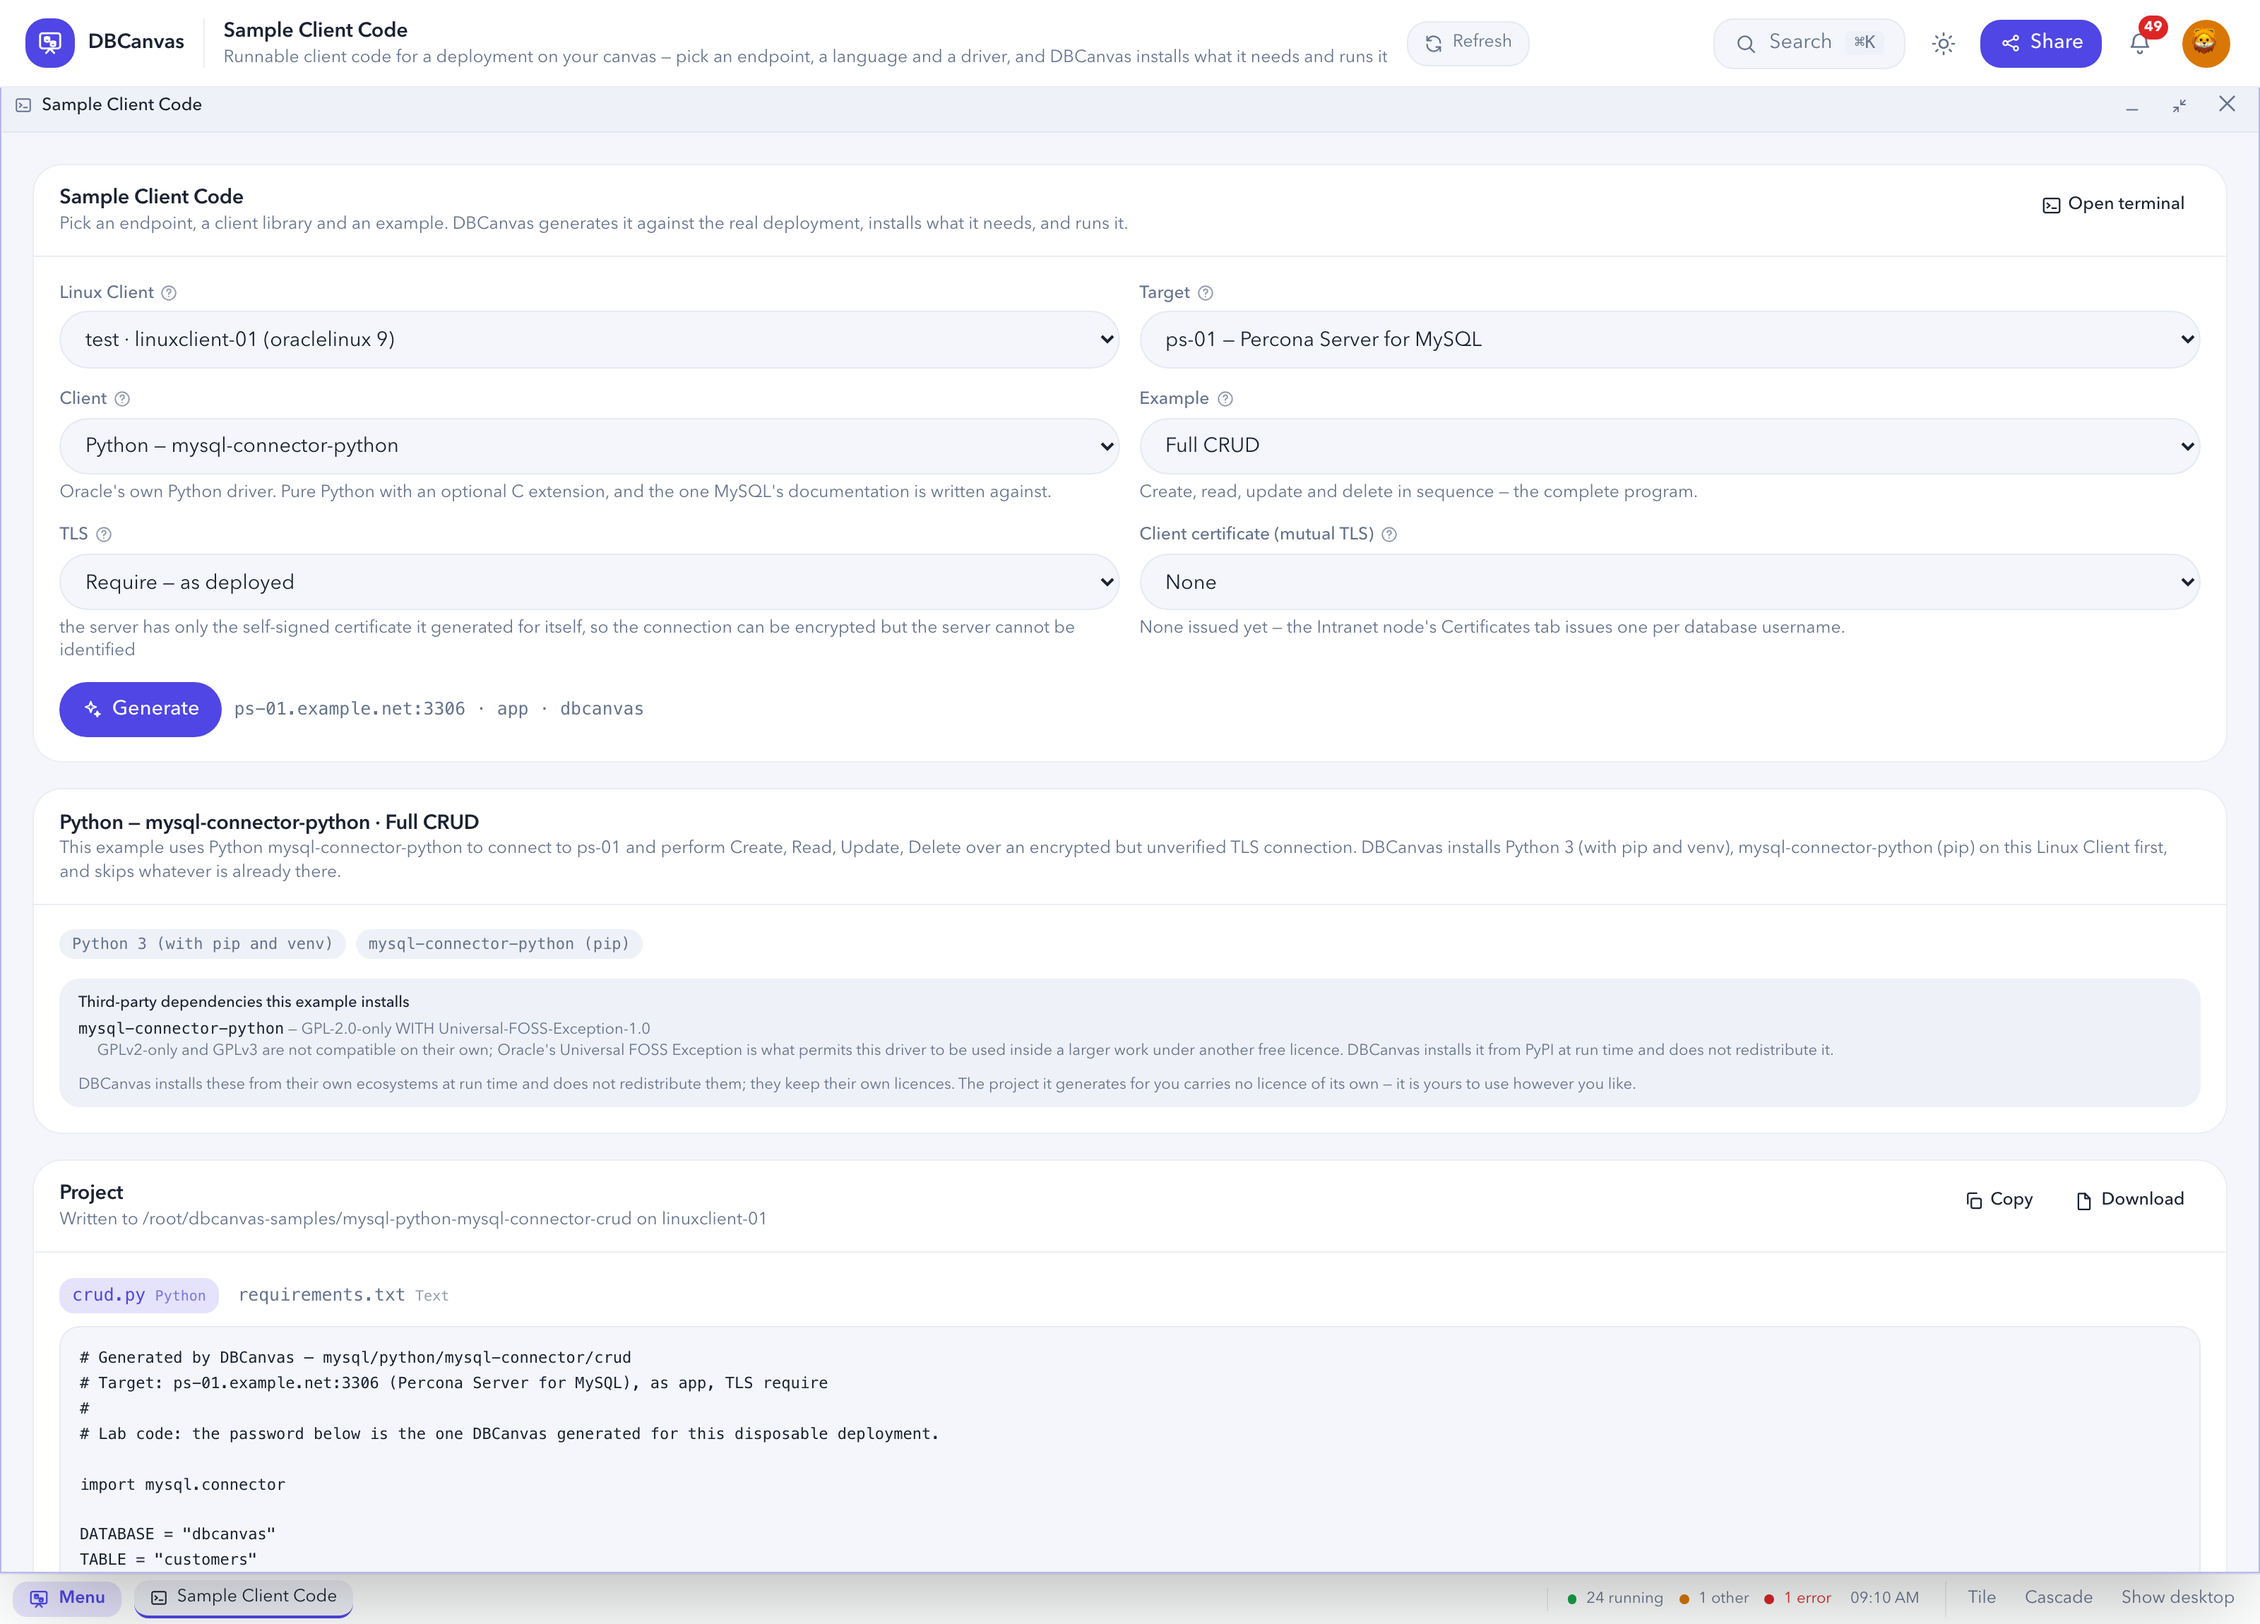
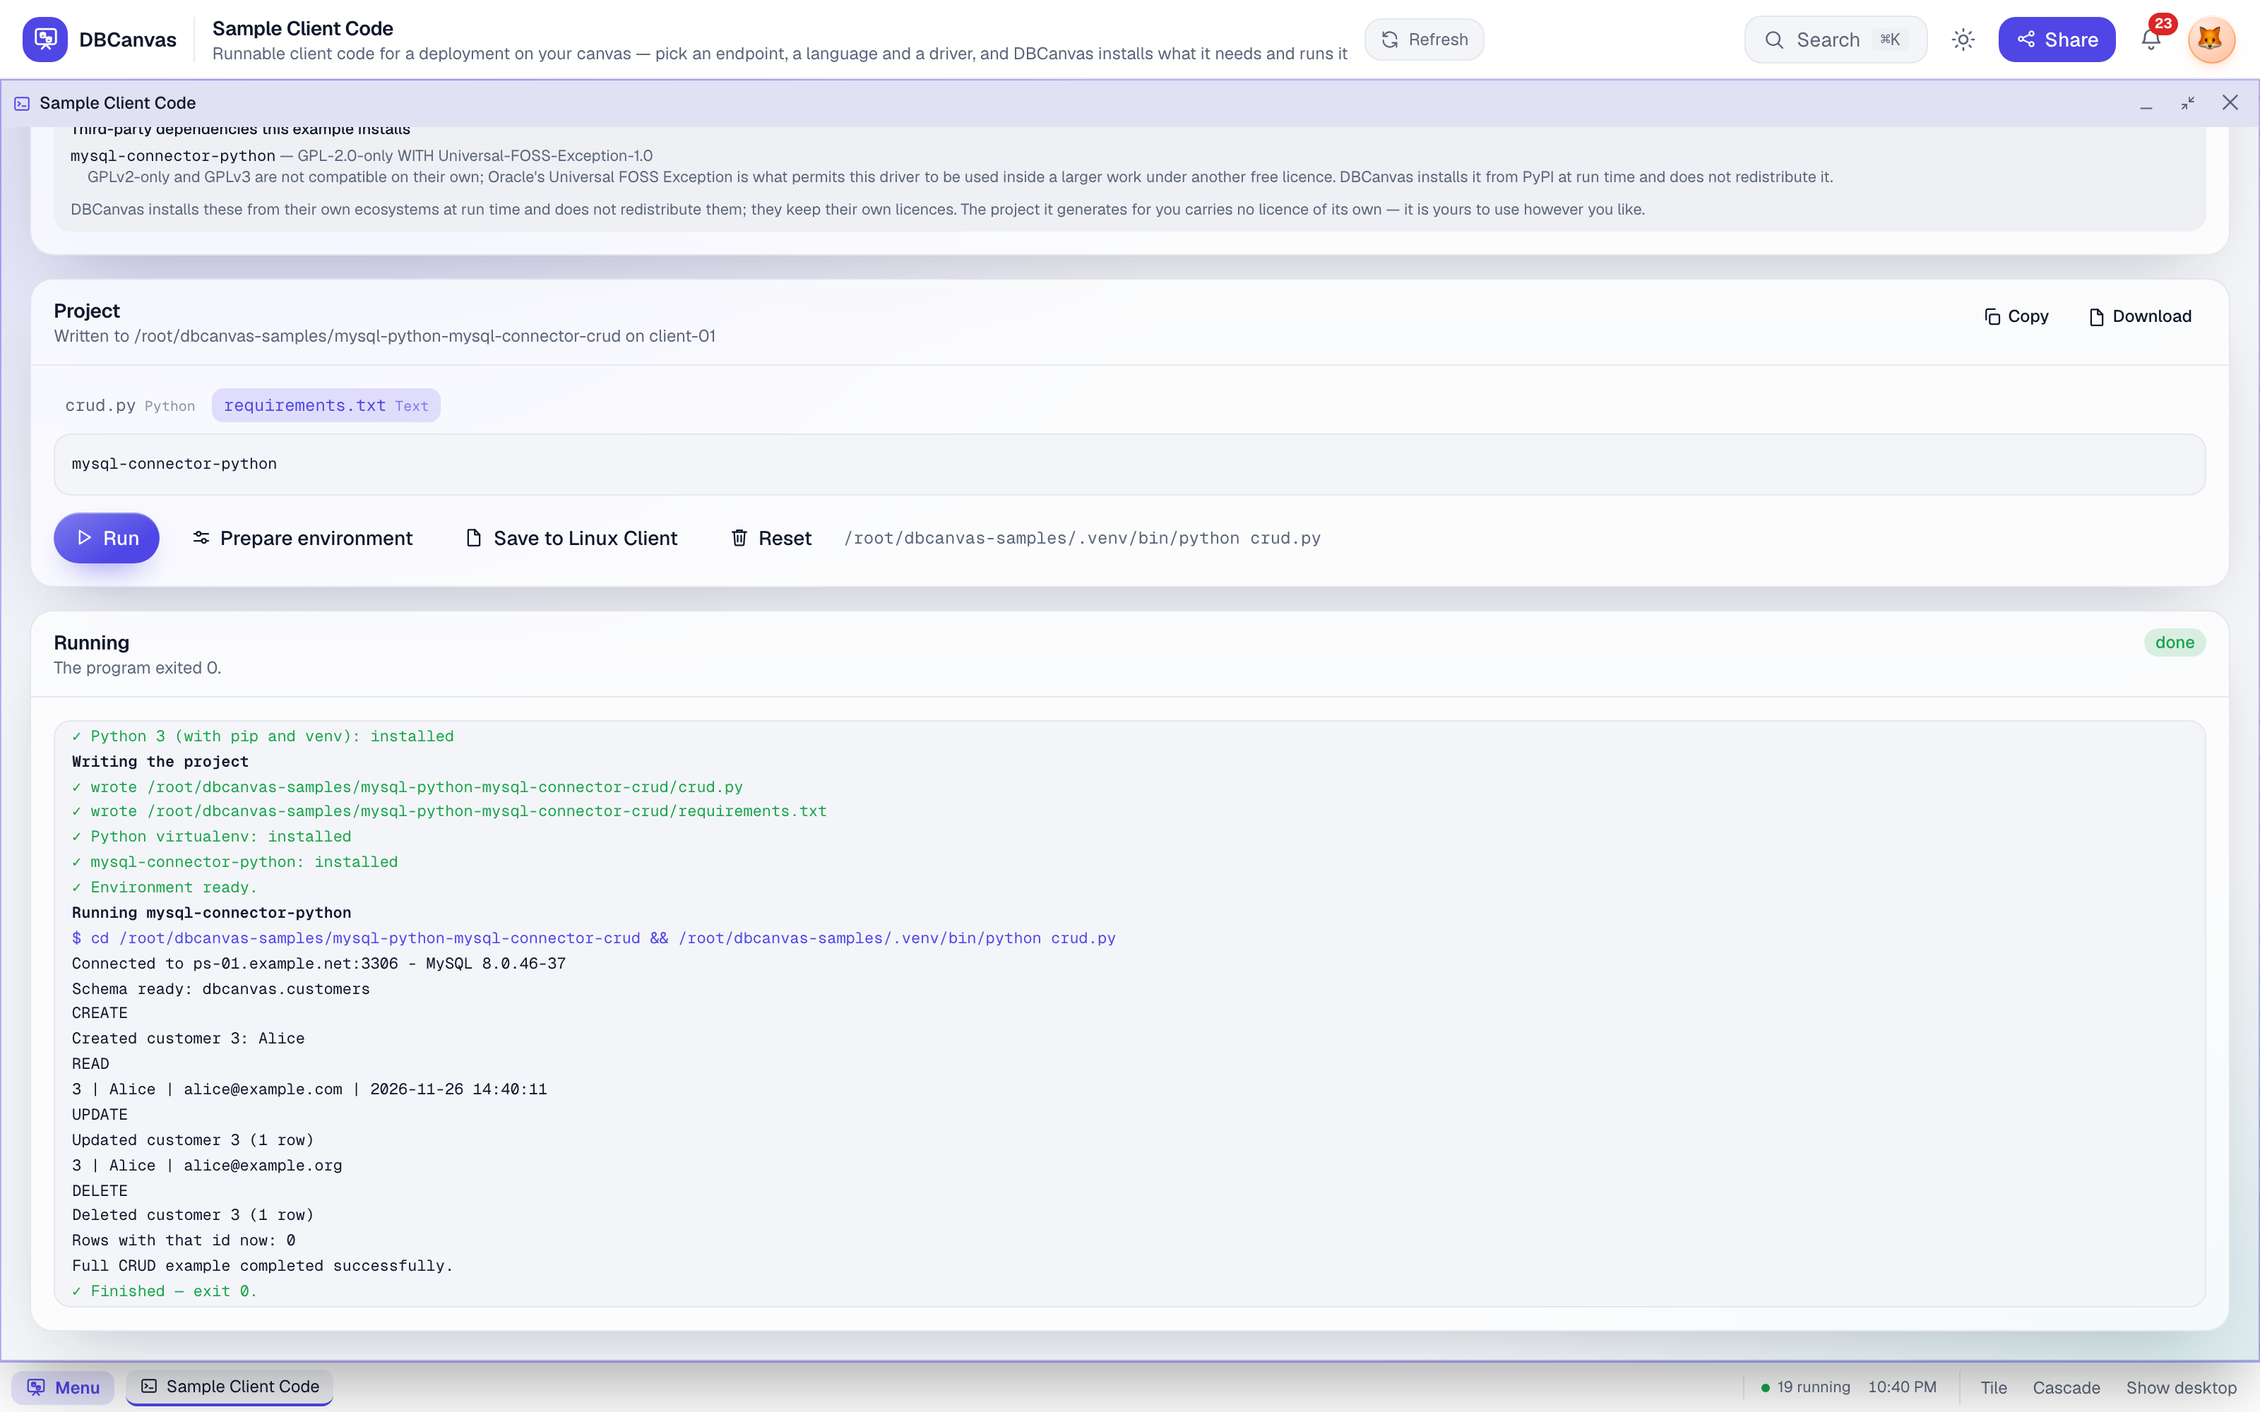
Sample Client Code updates the demo row to an example.org address; docs: Sample Client Code screenshot after a run

diff --git a/app/samplecode_gen.go b/app/samplecode_gen.go
@@ -282,5 +282,5 @@ func scOneLine(s string) string {
 const (
 	scDemoName     = "Alice"
 	scDemoEmail    = "alice@example.com"
-	scDemoNewEmail = "alice@dbcanvas.example"
+	scDemoNewEmail = "alice@example.org"
 )

diff --git a/docs/SAMPLE_CODE.md b/docs/SAMPLE_CODE.md
@@ -4,7 +4,7 @@
 Linux Client, installs what it needs, and runs it. Host, port, account, password and TLS settings
 come from the real deployment, so the program works without edits.
 
-![Sample Client Code — an endpoint, a driver and an example, generated against the real deployment and run on a Linux Client](screenshots/sample-code.png)
+![Sample Client Code after Run: the project written to the Linux Client, then each install step and the program's CRUD output against the real deployment](screenshots/sample-code.png)
 
 ## Generate and run a sample
 
